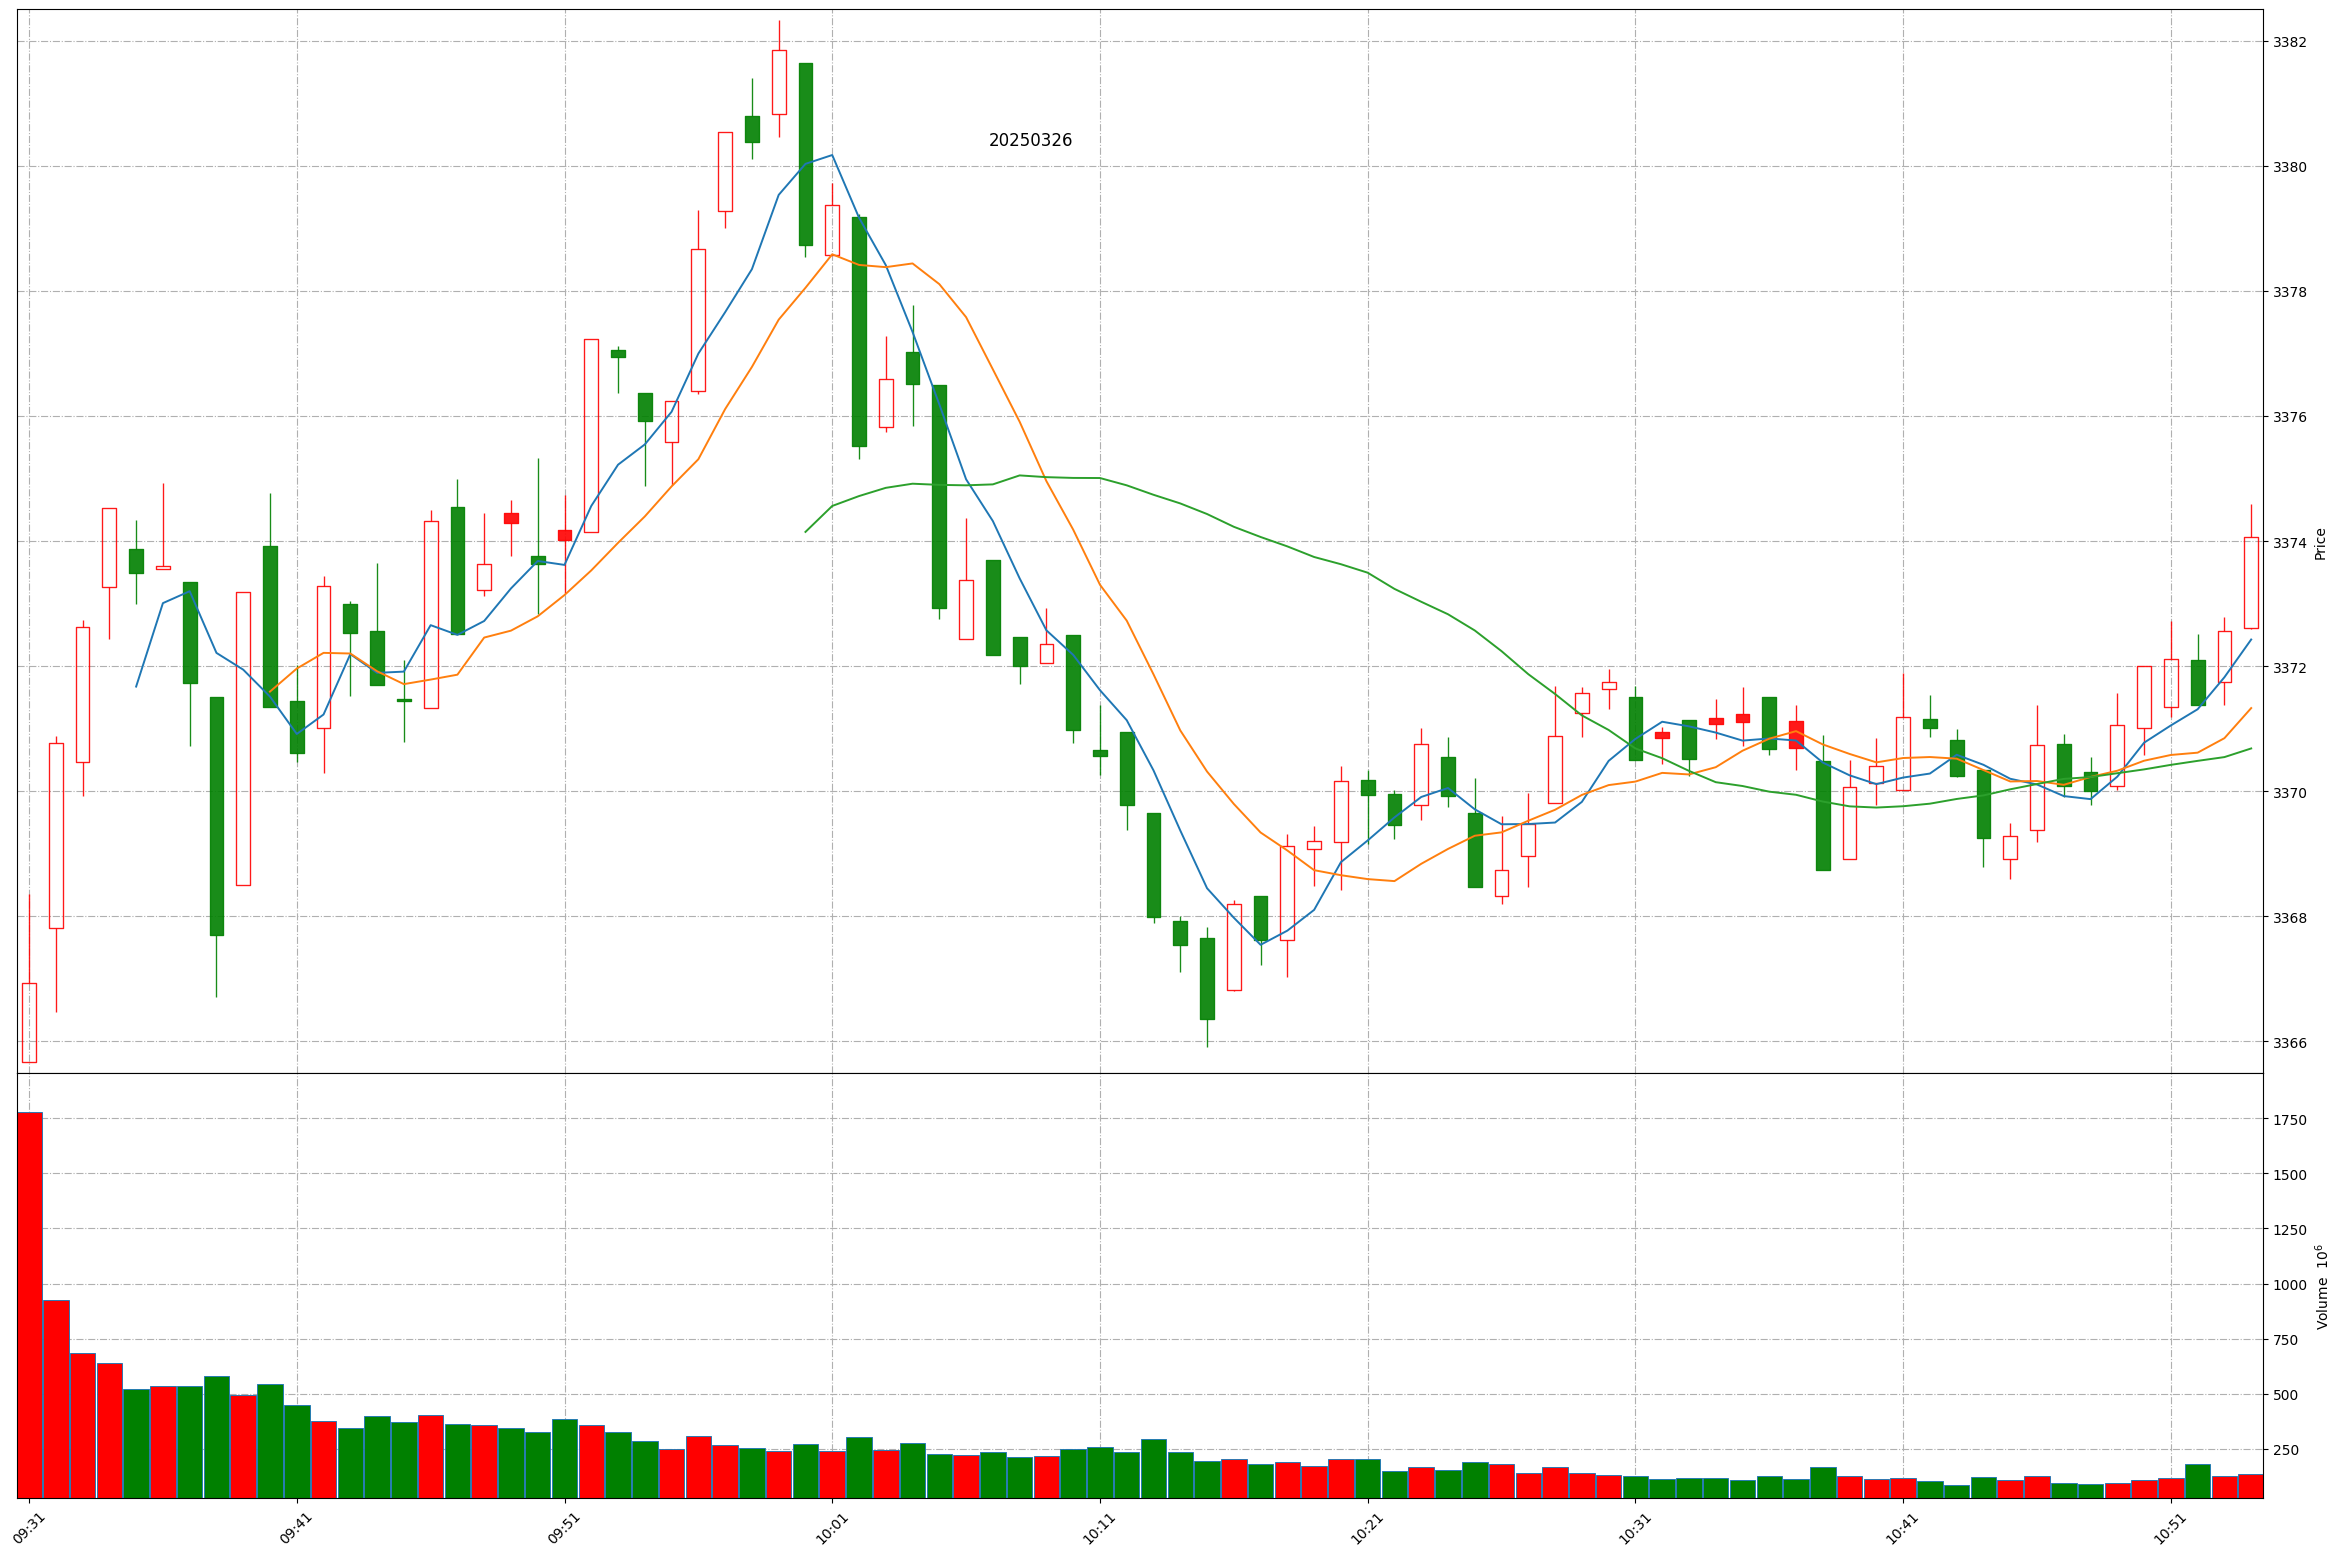
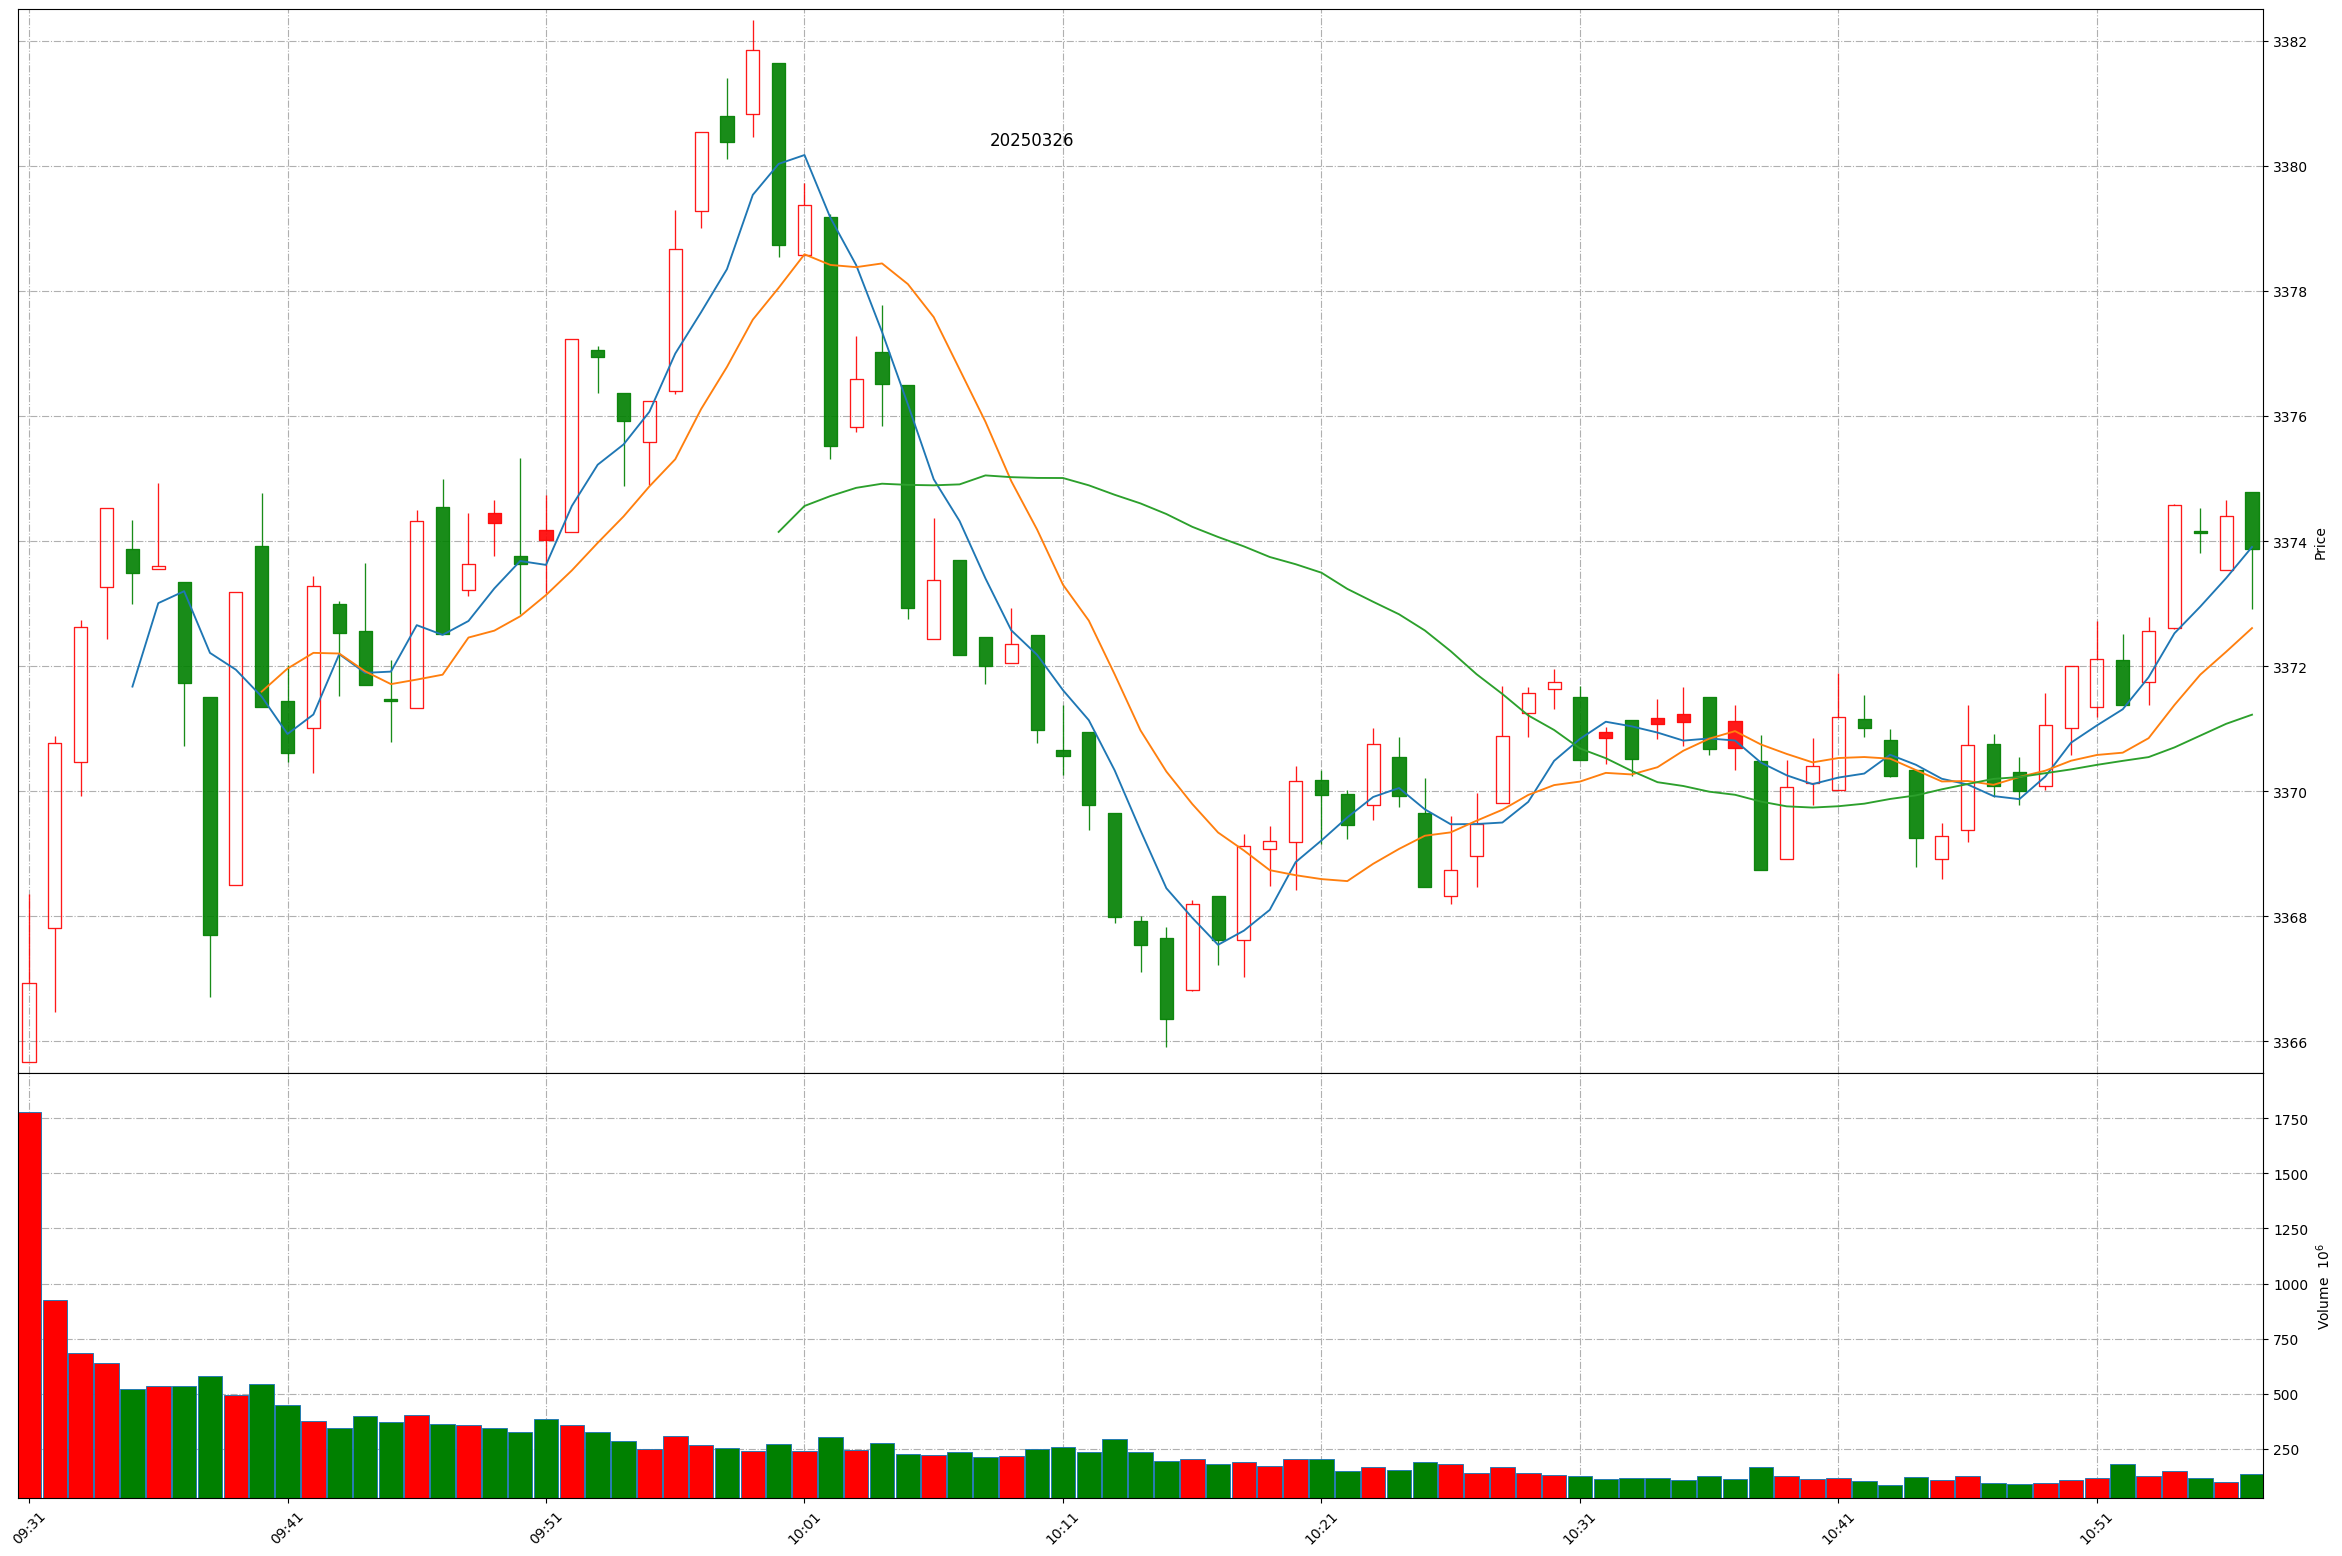
Github action update at 2025-03-26 10:57:14.

diff --git a/README.md b/README.md
@@ -1,11 +1,11 @@
 
 # Daily-A-share-market-quotes 每日 A 股指数（5min 更新）- 20250326
 
-### 上证指数 20250326 10:54
+### 上证指数 20250326 10:57
 ![](./fig/2025/3/20250326-sh000001.png)
 
-### 深证成指 20250326 10:54
+### 深证成指 20250326 10:57
 ![](./fig/2025/3/20250326-sz399001.png)
 
-### 北证50 20250326 10:54
+### 北证50 20250326 10:57
 ![](./fig/2025/3/20250326-bj899050.png)
